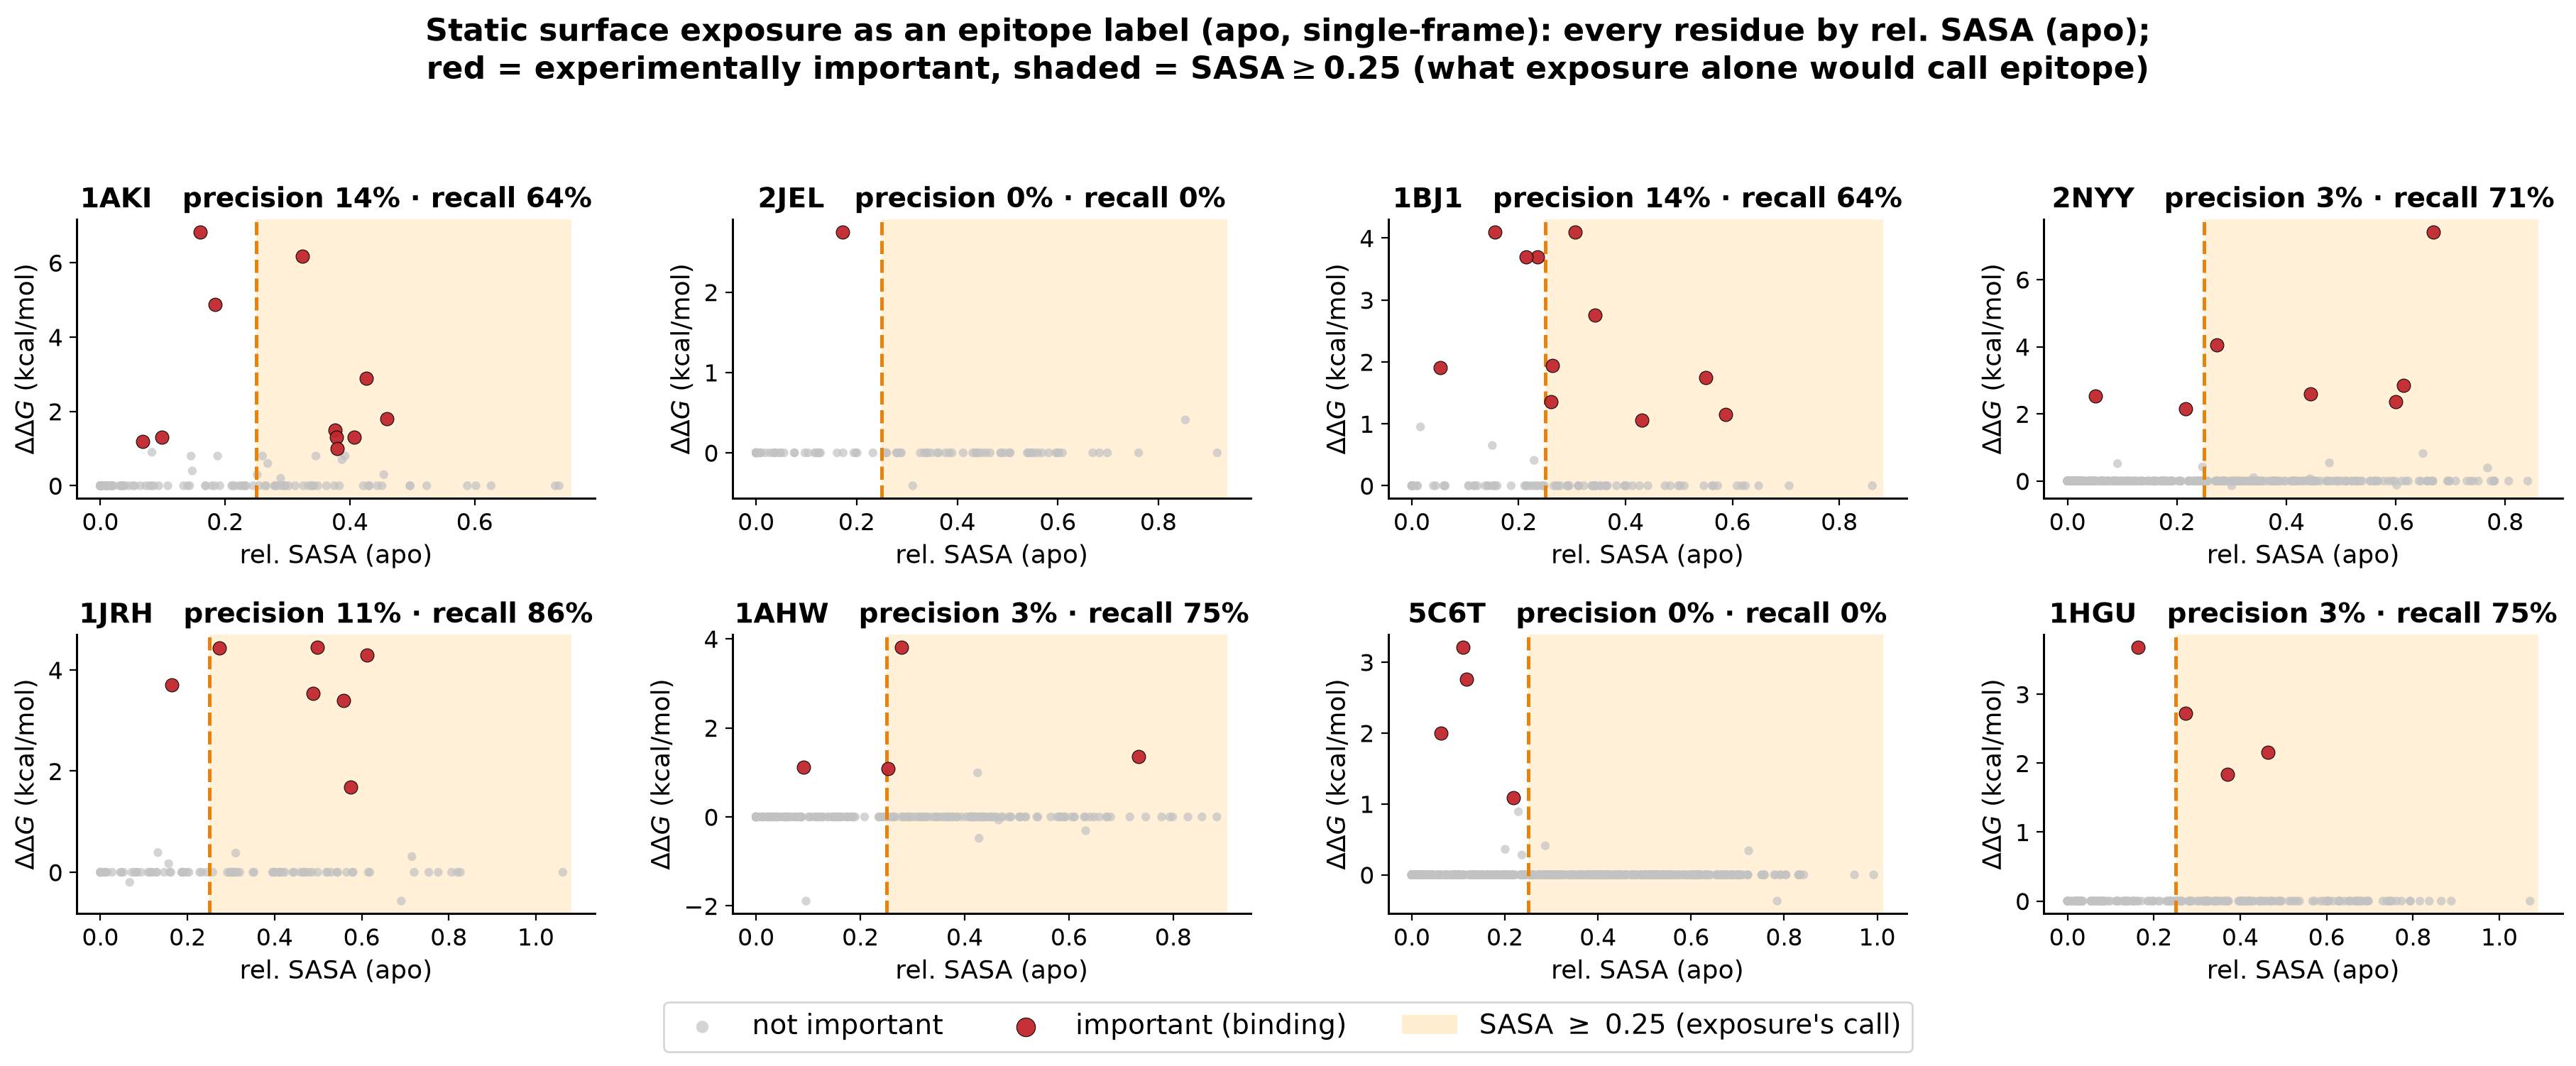
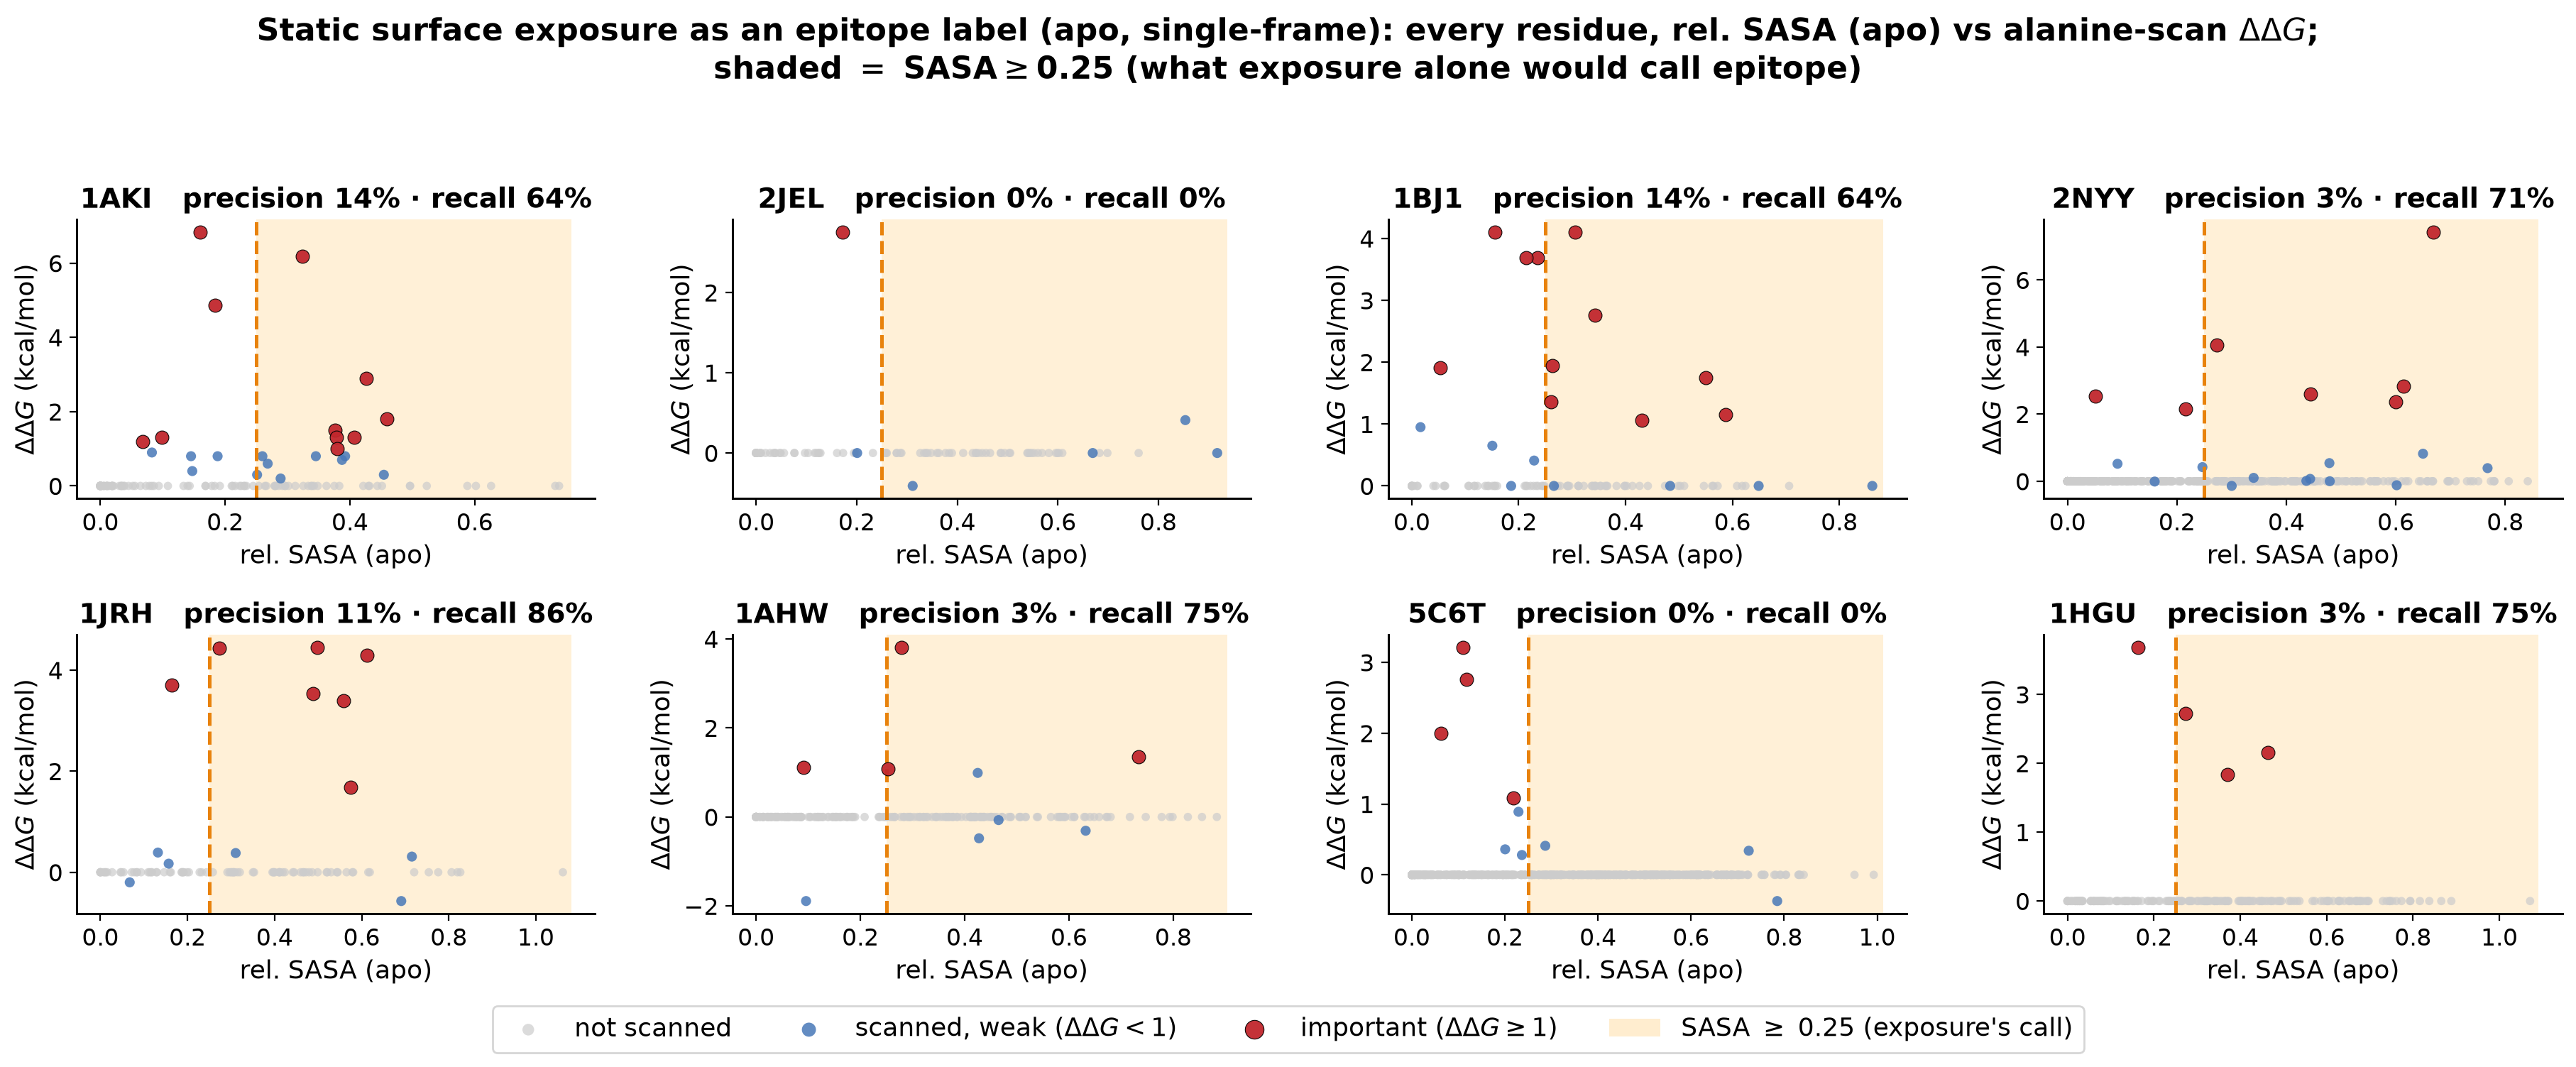
3-way coloring on SASA plots: separate scanned-weak from not-scanned
Grey previously conflated unscanned residues (no data, at ddG=0) with scanned-but-weak
ones (measured 0<ddG<1 or binding-improving ddG<0), so non-zero residues looked
uncolored. Now: grey=not scanned, blue=scanned-weak (ddG<1), red=important (ddG>=1).
Precision/recall unchanged (important set identical). Caption + suptitle updated.

diff --git a/analysis/plot_feature_vs_label.py b/analysis/plot_feature_vs_label.py
@@ -29,8 +29,9 @@ plt.rcParams.update({
     "axes.linewidth": 1.1, "axes.spines.top": False, "axes.spines.right": False,
     "figure.dpi": 150, "savefig.bbox": "tight", "font.family": "DejaVu Sans",
 })
-GREY = "#c2c2c2"      # not important
-RED = "#c1272d"       # experimentally important
+GREY = "#cccccc"      # not scanned (no alanine-scan data; plotted at ddG=0)
+BLUE = "#4878b8"      # scanned but weak / binding-improving (|ddG| below the important cutoff)
+RED = "#c1272d"       # scanned and important (ddG >= cutoff)
 SHADE = "#ffe2b0"     # "SASA would call epitope" region
 
 LABEL_CSV = "benchmark/antigen_alanine_scan_extracted_SIMPLE_v3.csv"
@@ -139,12 +140,17 @@ def main():
         P_pred += n_pred; P_tp += n_tp; P_imp += n_imp; P_res += n_res
         print(f"{KEY2PDB[k]:6s} {n_res:5d} {n_pred:6d} {n_tp:4d} {n_imp:5d} "
               f"{prec:6.2f} {recall:7.2f} {rho:9.3f} {A:6.2f}")
-        # plot ALL residues: grey = not important, red = experimentally important
+        # 3-way: grey = not scanned, blue = scanned-weak, red = scanned-important
+        scanned = np.array([r in lab for r in resids])
+        weak = scanned & ~important
+        bulk = ~scanned
         ax.axvspan(thr, max(x.max(), thr) + 0.02, color=SHADE, alpha=0.5, lw=0)
-        ax.scatter(x[~important], y[~important], c=GREY, s=20, alpha=0.7, edgecolors="none",
-                   label="not important")
+        ax.scatter(x[bulk], y[bulk], c=GREY, s=18, alpha=0.7, edgecolors="none",
+                   label="not scanned")
+        ax.scatter(x[weak], y[weak], c=BLUE, s=26, alpha=0.85, edgecolors="none",
+                   label=f"scanned, weak ($\\Delta\\Delta G<{args.cutoff:g}$)", zorder=2)
         ax.scatter(x[important], y[important], c=RED, s=46, alpha=0.95, edgecolors="k",
-                   linewidths=0.4, label="important (binding)", zorder=3)
+                   linewidths=0.4, label=f"important ($\\Delta\\Delta G\\geq{args.cutoff:g}$)", zorder=3)
         ax.axvline(thr, color="#e8820c", ls="--", lw=1.8)
         ax.set_title(f"{KEY2PDB[k]}   precision {prec:.0%} · recall {recall:.0%}",
                      fontsize=14, fontweight="bold")
@@ -156,10 +162,10 @@ def main():
     # single figure-level legend BELOW the grid (outside all panels -> hides no data)
     handles, labs = axes[0][0].get_legend_handles_labels()
     handles.append(Patch(facecolor=SHADE, alpha=0.6)); labs.append(f"SASA $\\geq$ {thr} (exposure's call)")
-    fig.legend(handles, labs, loc="lower center", ncol=3, fontsize=14, frameon=True,
+    fig.legend(handles, labs, loc="lower center", ncol=4, fontsize=13, frameon=True,
                markerscale=1.4, bbox_to_anchor=(0.5, 0.005))
-    fig.suptitle(f"Static surface exposure as an epitope label (apo, single-frame): every residue by "
-                 f"{args.label};\nred = experimentally important, shaded = SASA$\\geq${thr} "
+    fig.suptitle(f"Static surface exposure as an epitope label (apo, single-frame): every residue, "
+                 f"{args.label} vs alanine-scan $\\Delta\\Delta G$;\nshaded $=$ SASA$\\geq${thr} "
                  f"(what exposure alone would call epitope)", fontsize=16, fontweight="bold")
     fig.tight_layout(rect=[0, 0.05, 1, 0.95])
     p1 = outdir / "sasa_allres_per_antigen.png"
@@ -167,17 +173,22 @@ def main():
 
     # pooled: all residues, same decision line -- the manuscript figure
     fig2, ax = plt.subplots(figsize=(8.5, 6.0))
-    allx, ally, allimp = [], [], []
+    allx, ally, allscan, allimp = [], [], [], []
     for k in keys:
         for r in sorted(feat[k]):
             allx.append(feat[k][r]); ally.append(labels[k].get(r, 0.0))
+            allscan.append(r in labels[k])
             allimp.append(r in labels[k] and labels[k][r] >= args.cutoff)
-    allx, ally, allimp = np.array(allx), np.array(ally), np.array(allimp)
+    allx, ally = np.array(allx), np.array(ally)
+    allscan, allimp = np.array(allscan), np.array(allimp)
+    allweak = allscan & ~allimp
     ax.axvspan(thr, allx.max() + 0.03, color=SHADE, alpha=0.55, lw=0)
-    ax.scatter(allx[~allimp], ally[~allimp], c=GREY, s=16, alpha=0.55, edgecolors="none",
-               label="not important for binding")
+    ax.scatter(allx[~allscan], ally[~allscan], c=GREY, s=14, alpha=0.5, edgecolors="none",
+               label="not scanned")
+    ax.scatter(allx[allweak], ally[allweak], c=BLUE, s=30, alpha=0.85, edgecolors="none",
+               label=f"scanned, weak ($\\Delta\\Delta G<{args.cutoff:g}$)", zorder=2)
     ax.scatter(allx[allimp], ally[allimp], c=RED, s=42, alpha=0.95, edgecolors="k",
-               linewidths=0.4, label="important for binding", zorder=3)
+               linewidths=0.4, label=f"important ($\\Delta\\Delta G\\geq{args.cutoff:g}$)", zorder=3)
     ax.axvline(thr, color="#e8820c", ls="--", lw=2.2)
     prec_all = P_tp / P_pred if P_pred else float("nan")
     recall_all = P_tp / P_imp if P_imp else float("nan")
@@ -192,8 +203,8 @@ def main():
     # legend BELOW the axes (outside the plot -> hides no data)
     h2, l2 = ax.get_legend_handles_labels()
     h2.append(Patch(facecolor=SHADE, alpha=0.6)); l2.append(f"SASA $\\geq$ {thr} (exposure's call)")
-    ax.legend(h2, l2, loc="upper center", bbox_to_anchor=(0.5, -0.13), ncol=3, fontsize=13.5,
-              frameon=True, markerscale=1.3, columnspacing=1.2, handletextpad=0.5)
+    ax.legend(h2, l2, loc="upper center", bbox_to_anchor=(0.5, -0.15), ncol=2, fontsize=13,
+              frameon=True, markerscale=1.3, columnspacing=1.5, handletextpad=0.5)
     ax.margins(x=0.02)
     p2 = outdir / "sasa_allres_pooled.png"
     fig2.savefig(p2, dpi=220, bbox_inches="tight"); plt.close(fig2)

diff --git a/manuscript/sections/baseline_exposure.tex b/manuscript/sections/baseline_exposure.tex
@@ -18,8 +18,9 @@ label. We then read off precision and recall against the experimental importance
 \begin{figure}[H]\centering
 \figorbox{sasa_baseline.png}{0.82}
 \caption{\textbf{Surface exposure as an epitope label.} Every residue of the eight $\ddG$ antigens,
-apo rel.\ SASA ($x$) vs.\ alanine-scan $\ddG$ ($y$); red $=$ experimentally important for binding,
-grey $=$ not; the shaded band is what an exposure cutoff (rel.\ SASA $\geq 0.25$) would call epitope.
+apo rel.\ SASA ($x$) vs.\ alanine-scan $\ddG$ ($y$); red $=$ scanned and important ($\ddG\geq 1$),
+blue $=$ scanned but weak ($\ddG<1$, incl.\ binding-improving), grey $=$ not alanine-scanned (no
+data, plotted at $0$); the shaded band is what an exposure cutoff (rel.\ SASA $\geq 0.25$) would call epitope.
 Exposure flags $925$ of $1{,}790$ residues as epitope but only $31$ are truly important
 ($\mathrm{precision}\approx 3\%$), while still missing the buried-at-interface hotspots to the left of
 the line ($\mathrm{recall}\approx 63\%$). Single-frame apo SASA;